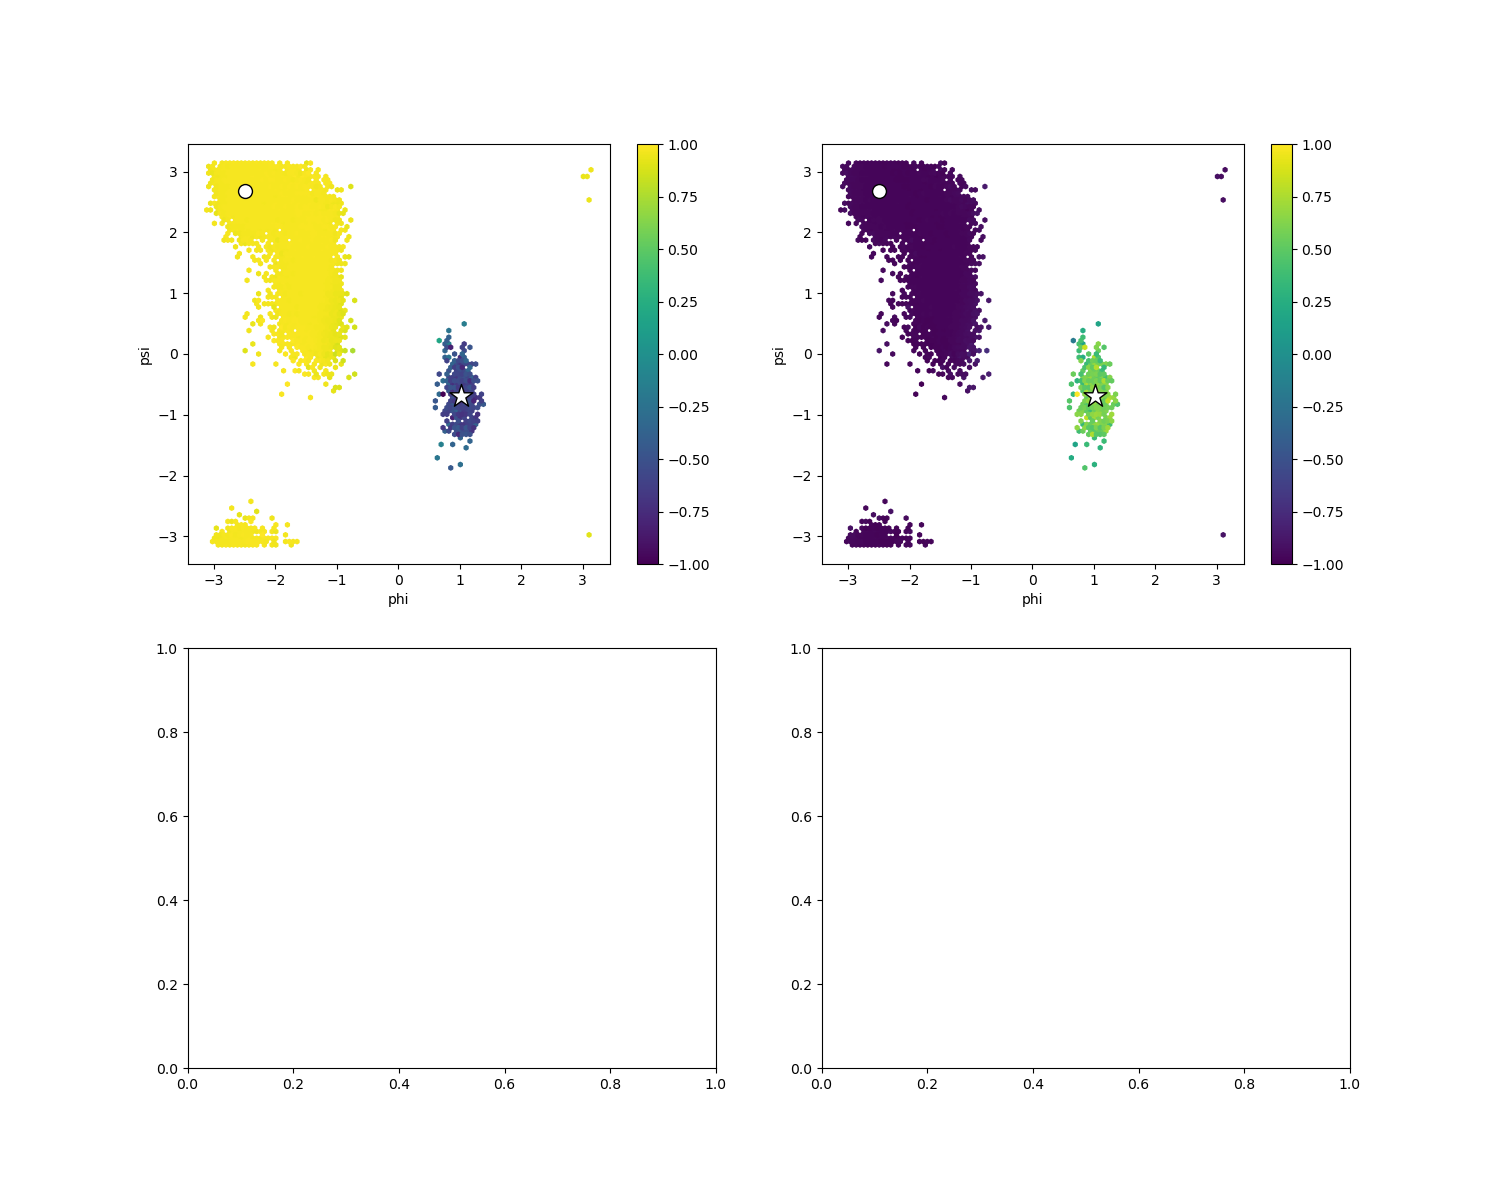
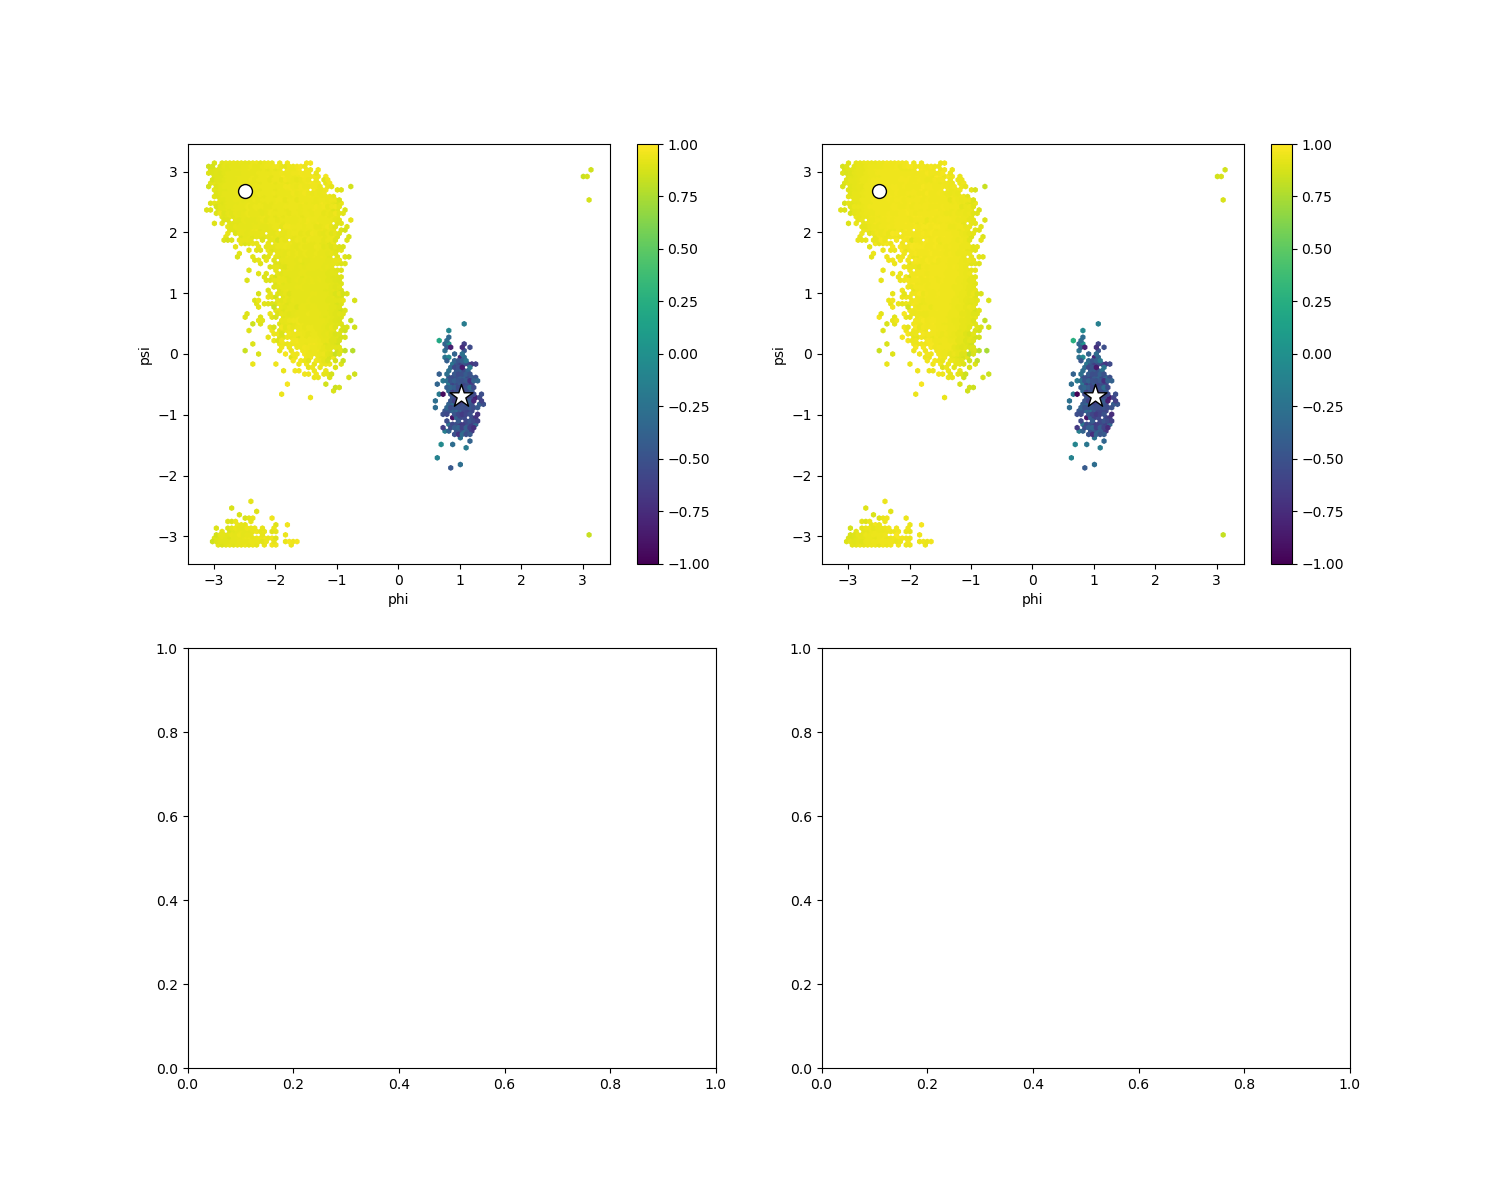
upd

Changed region(s): [[0.552, 0.1233, 0.6747, 0.3392], [0.7053, 0.2775, 0.7667, 0.37], [0.552, 0.4317, 0.6133, 0.4625]]

diff --git a/src/model.py b/src/model.py
@@ -22,9 +22,9 @@ class DeepLDA(DeepLDA):
     
     def set_cv_range(self, cv_min, cv_max, cv_std):
         self.cv_normalize = True
-        self.cv_min = cv_min
-        self.cv_max = cv_max
-        self.cv_std = cv_std
+        self.cv_min = cv_min.detach()
+        self.cv_max = cv_max.detach()
+        self.cv_std = cv_std.detach()
 
     def _map_range(self, x):
         out_max = 1
@@ -50,9 +50,9 @@ class DeepTDA(DeepTDA):
         
     def set_cv_range(self, cv_min, cv_max, cv_std):
         self.cv_normalize = True
-        self.cv_min = cv_min
-        self.cv_max = cv_max
-        self.cv_std = cv_std
+        self.cv_min = cv_min.detach()
+        self.cv_max = cv_max.detach()
+        self.cv_std = cv_std.detach()
 
     def _map_range(self, x):
         out_max = 1
@@ -78,9 +78,9 @@ class DeepTICA(DeepTICA):
 
     def set_cv_range(self, cv_min, cv_max, cv_std):
         self.cv_normalize = True
-        self.cv_min = cv_min
-        self.cv_max = cv_max
-        self.cv_std = cv_std
+        self.cv_min = cv_min.detach()
+        self.cv_max = cv_max.detach()
+        self.cv_std = cv_std.detach()
 
     def _map_range(self, x):
         out_max = 1
@@ -129,9 +129,9 @@ class AutoEncoderCV(AutoEncoderCV):
     
     def set_cv_range(self, cv_min, cv_max, cv_std):
         self.cv_normalize = True
-        self.cv_min = cv_min
-        self.cv_max = cv_max
-        self.cv_std = cv_std
+        self.cv_min = cv_min.detach()
+        self.cv_max = cv_max.detach()
+        self.cv_std = cv_std.detach()
 
     def _map_range(self, x):
         out_max = 1
@@ -229,9 +229,9 @@ class VariationalDynamicsEncoder(VariationalAutoEncoderCV):
     
     def set_cv_range(self, cv_min, cv_max, cv_std):
         self.cv_normalize = True
-        self.cv_min = cv_min
-        self.cv_max = cv_max
-        self.cv_std = cv_std
+        self.cv_min = cv_min.detach()
+        self.cv_max = cv_max.detach()
+        self.cv_std = cv_std.detach()
 
     def _map_range(self, x):
         out_max = 1
@@ -251,8 +251,8 @@ class CLCV(BaseCV, lightning.LightningModule):
     ):
         super().__init__(in_features=encoder_layers[0], out_features=encoder_layers[-1], **kwargs)
         # ======= OPTIONS =======
-        # parse and sanitize
         options = self.parse_options(options)
+        self.cv_normalize = False
         self.cv_min = 0
         self.cv_max = 1
 
@@ -277,16 +277,18 @@ class CLCV(BaseCV, lightning.LightningModule):
         if self.norm_in is not None:
             x = self.norm_in(x)
         x = self.encoder(x)
-        if not self.training:
-            x = self.map_range(x)
+        
+        if self.cv_normalize:
+            x = self._map_range(x)
         return x
 
     def set_cv_range(self, cv_min, cv_max, cv_std):
+        self.cv_normalize = True
         self.cv_min = cv_min
         self.cv_max = cv_max
         self.cv_std = cv_std
 
-    def map_range(self, x):
+    def _map_range(self, x):
         out_max = 1
         out_min = -1
         return (x - self.cv_min) * (out_max - out_min) / (self.cv_max - self.cv_min) + out_min

diff --git a/src/plot.py b/src/plot.py
@@ -17,10 +17,6 @@ ALDP_PHI_ANGLE = [4, 6, 8, 14]
 ALDP_PSI_ANGLE = [6, 8, 14, 16]
 MODEL_NAME = ["clcv", "deeplda", "deeptda", "deeptica", "autoencoder", "timelagged-autoencoder", "vde"]
 
-def map_range(x, in_min, in_max):
-    out_max = 1
-    out_min = -1
-    return (x - in_min) * (out_max - out_min) / (in_max - in_min) + out_min
 
 def plot_ad_cv(
     cfg,
@@ -53,8 +49,14 @@ def plot_ad_cv(
         cv = model(data)
         cv_list.append(cv)
     cv_list = torch.stack(cv_list)
+    for i in range(cv_dim):
+        wandb.log({
+            f"cv/cv{i}/min": cv_list[:, i].min(),
+            f"cv/cv{i}/max": cv_list[:, i].max(),
+            f"cv/cv{i}/std": cv_list[:, i].std()
+        })
     
-    # Scaling for some cases
+    # CV Normalization
     print(f"CV range: {cv_list.min(dim=0)[0]} ~ {cv_list.max(dim=0)[0]}")
     if cfg.name in MODEL_NAME:
         model.set_cv_range(cv_list.min(dim=0)[0], cv_list.max(dim=0)[0], cv_list.std(dim=0)[0])
@@ -62,18 +64,12 @@ def plot_ad_cv(
     else:
         raise ValueError(f"Model {cfg.name} not found")
     print(f"CV normalized range: {cv_list.min(dim=0)[0]} ~ {cv_list.max(dim=0)[0]}")
-        
     df = pd.DataFrame({
         **{f'CV{i}': cv_list[:, i].detach().cpu().numpy() for i in range(cv_dim)},
         'psi': psi_list.squeeze(),
         'phi': phi_list.squeeze()
     })
-    for i in range(cv_dim):
-        wandb.log({
-            f"cv/cv{i}/min": df[f'CV{i}'].min(),
-            f"cv/cv{i}/max": df[f'CV{i}'].max(),
-            f"cv/cv{i}/std": df[f'CV{i}'].std()
-        })
+
     
     # Plot the projection of CVs
     fig, axs = plt.subplots(2, 2, figsize = ( 15, 12 ) )

diff --git a/main.py b/main.py
@@ -42,30 +42,30 @@ def main(cfg):
     trainer.fit(model, datamodule)
     logger.info(">> Training complete")
     
-    # Save model
+    # Plot CVs
     model.eval()
     logger.info("")
-    logger.info(">> Saving models")
+    logger.info(">> Saving plots")
     checkpoint_path = f"./model/{cfg.name}/{cfg.data.version}"
     if not os.path.exists(f"./model/{cfg.name}"):
         os.makedirs(f"./model/{cfg.name}")
     if os.path.exists(checkpoint_path + "-jit.pt") or os.path.exists(checkpoint_path + ".pt"):
         random_suffix = ''.join(random.choices(string.ascii_lowercase + string.digits, k=6))
         checkpoint_path += f"-{random_suffix}"
-    torch.save(model.state_dict(), checkpoint_path + ".pt")
-    example_input = torch.randn(1, cfg.input_dim)
-    traced_script_module = torch.jit.trace(model, example_input)
-    traced_script_module.save(checkpoint_path + "-jit.pt")
-    logger.info(f"Model saved at {checkpoint_path}")
-    
-    # Plot CVs
-    logger.info(">> Plotting CVs...")
     plot_ad_cv(
         cfg = cfg,
         model = model,
         datamodule = datamodule,
         checkpoint_path = checkpoint_path,
     )
+    
+    # Save model
+    logger.info(">> Saving model")
+    torch.save(model.state_dict(), checkpoint_path + ".pt")
+    example_input = torch.rand(1, cfg.input_dim)
+    traced_script_module = torch.jit.trace(model, example_input)
+    traced_script_module.save(checkpoint_path + "-jit.pt")
+    logger.info(f"Model saved at {checkpoint_path}")
     
     # finish
     wandb.finish()
